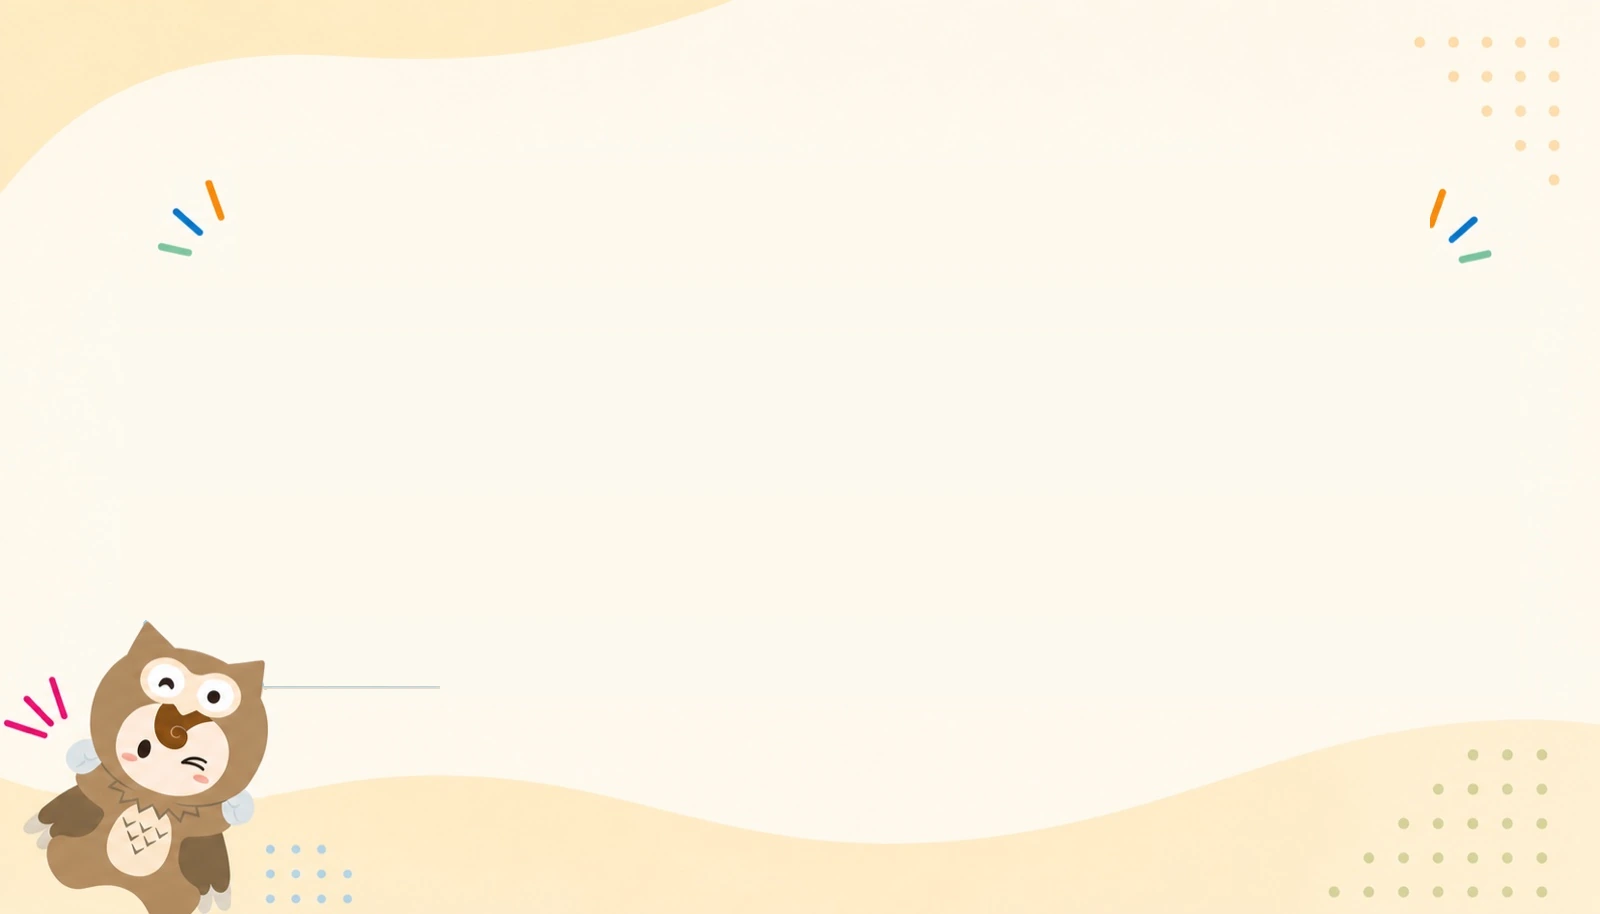
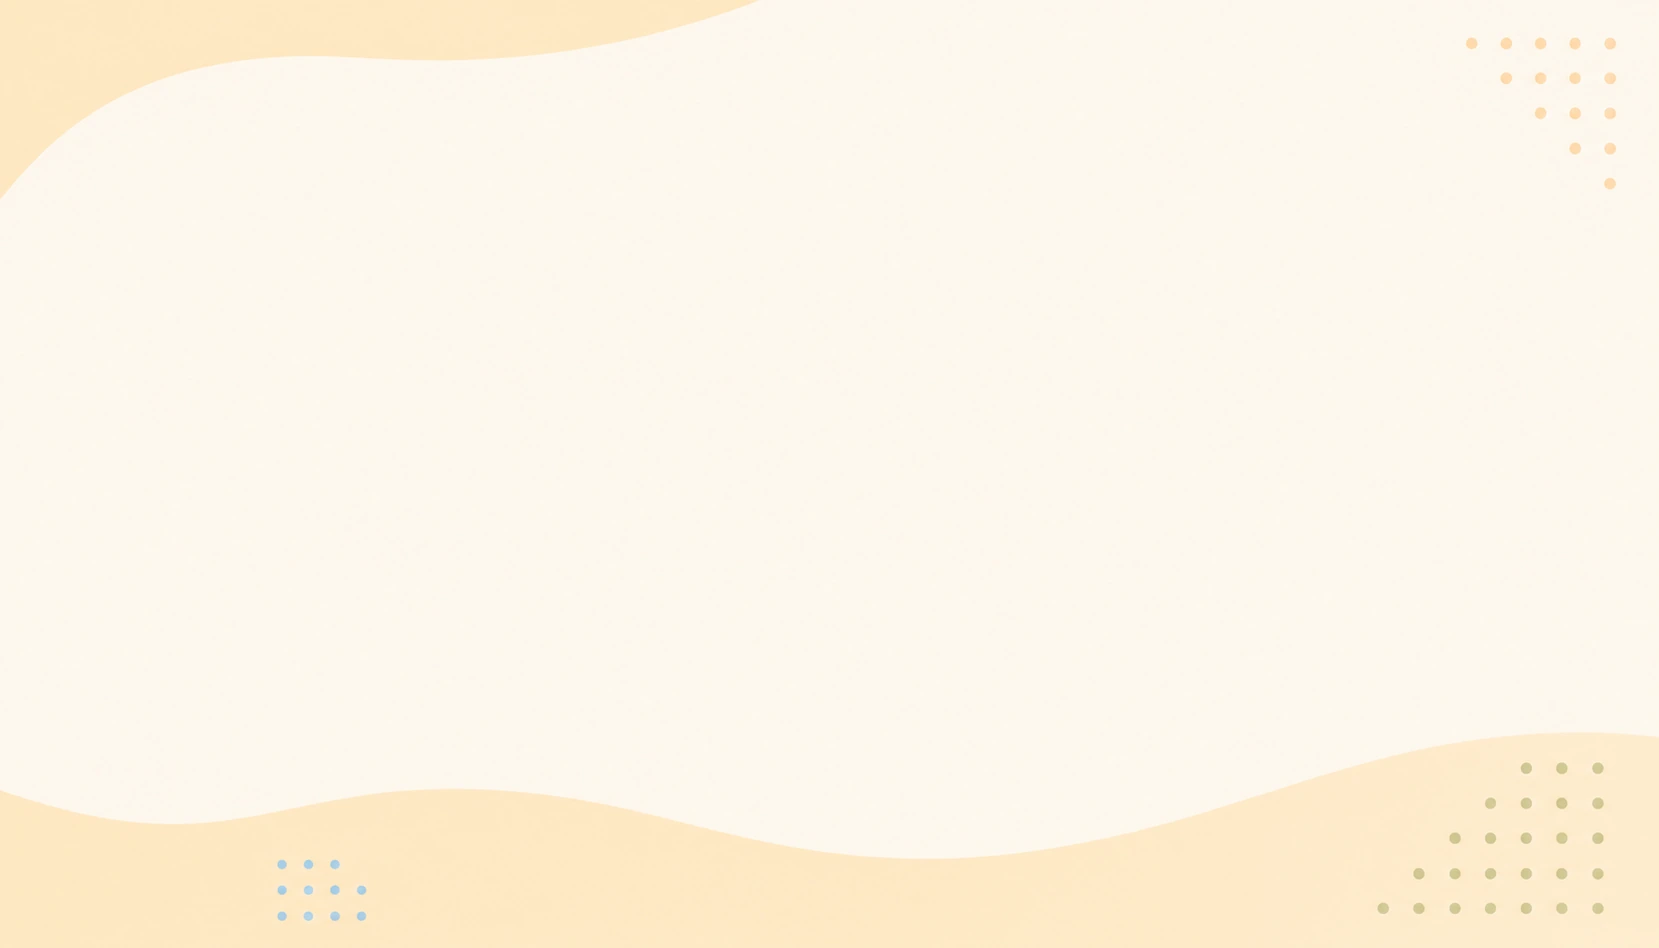
OWL 02_worry: 背景を星崎さん支給のものに差し替え（キラキラ・集中線なし）
- 支給背景 1659x948（比率57.1%＝PCセクションと一致）をPC用にそのまま使用
- スマホ用は同じ背景から生成：幅941に縮め、平らな中央部だけを縦に伸ばして941x1672に
  （波とドットには触っていない。継ぎ目は同色で不可視）
- アウル君を切り出し直し：カード枠の水色をマスクから除外し、内側に残っていた白い線2132pxを周囲色で補完

diff --git a/owl/worry_preview.html b/owl/worry_preview.html
@@ -42,8 +42,8 @@ body[data-view="over"] .range{display:flex}
   <b>見てほしいところ：</b>ブラウザの幅を変えると、860pxを境にスマホ版（2×2）とPC版（横4列）が切り替わります。
   「重ねる」を選ぶと元画像を半透明で重ねられます（ズレの確認用）。<br>
   <b>中身：</b>見出し・カードの文字はすべてHTMLのテキスト（＝Googleが読める）。
-  <b>背景（波・ドット・キラキラ）は、元画像から「文字とカードとアウル君だけを消した」もの</b>をそのまま敷いています
-  （CSSでの近似をやめました）。アイコン4つとアウル君は元画像からの切り出し。
+  <b>背景は星崎さん支給のものに差し替え済み</b>（2026-08-29）。見出し脇のキラキラとアウル君のピンクの集中線は、
+  ご指示どおり入れていません。アイコン4つとアウル君は元画像からの切り出しです。
   <b>文言・数値は1文字も変えていません。</b>
 </div>
 
@@ -55,7 +55,7 @@ body[data-view="over"] .range{display:flex}
 <style>
 /* OWL 02_worry — 焼き込み画像をHTML化（2026-08-29） */
 .owlwr{
-  --wr-cream:#fffaf0;      /* 地 */
+  --wr-cream:#fdf7ee;      /* 地（支給された背景画像に合わせた） */
   --wr-band:#feefce;       /* 上下の波の帯 */
   --wr-band2:#ffeeca;      /* 下の帯 */
   --wr-ink:#082652;        /* 見出しの紺 */
@@ -65,7 +65,8 @@ body[data-view="over"] .range{display:flex}
   position:relative; overflow:hidden;
   container-type:inline-size;   /* 以降の cqw は「このセクションの幅」基準 */
   /* ★背景は元画像から「文字・カード・アウル君だけを消した」もの。
-     波・ドット・キラキラは元画像そのまま。CSSで近似していない。 */
+     ★2026-08-29 星崎さん支給の背景に差し替え。
+     キラキラ（見出し脇）とピンクの集中線は「不要」との指示で入っていない。 */
   background:var(--wr-cream) url(worry_20260829/bg_sp.webp) center top / 100% 100% no-repeat;
   font-family:"Noto Sans JP","Hiragino Kaku Gothic ProN","Yu Gothic",sans-serif;
   color:var(--wr-ink);
@@ -184,7 +185,7 @@ body[data-view="over"] .range{display:flex}
     </ul>
   </div>
 
-  <img class="owlwr-mascot" src="worry_20260829/mascot.webp" alt="" aria-hidden="true" width="320" height="409" loading="lazy" decoding="async">
+  <img class="owlwr-mascot" src="worry_20260829/mascot.webp" alt="" aria-hidden="true" width="284" height="372" loading="lazy" decoding="async">
 
 </section>
         <div class="orig-ver">
